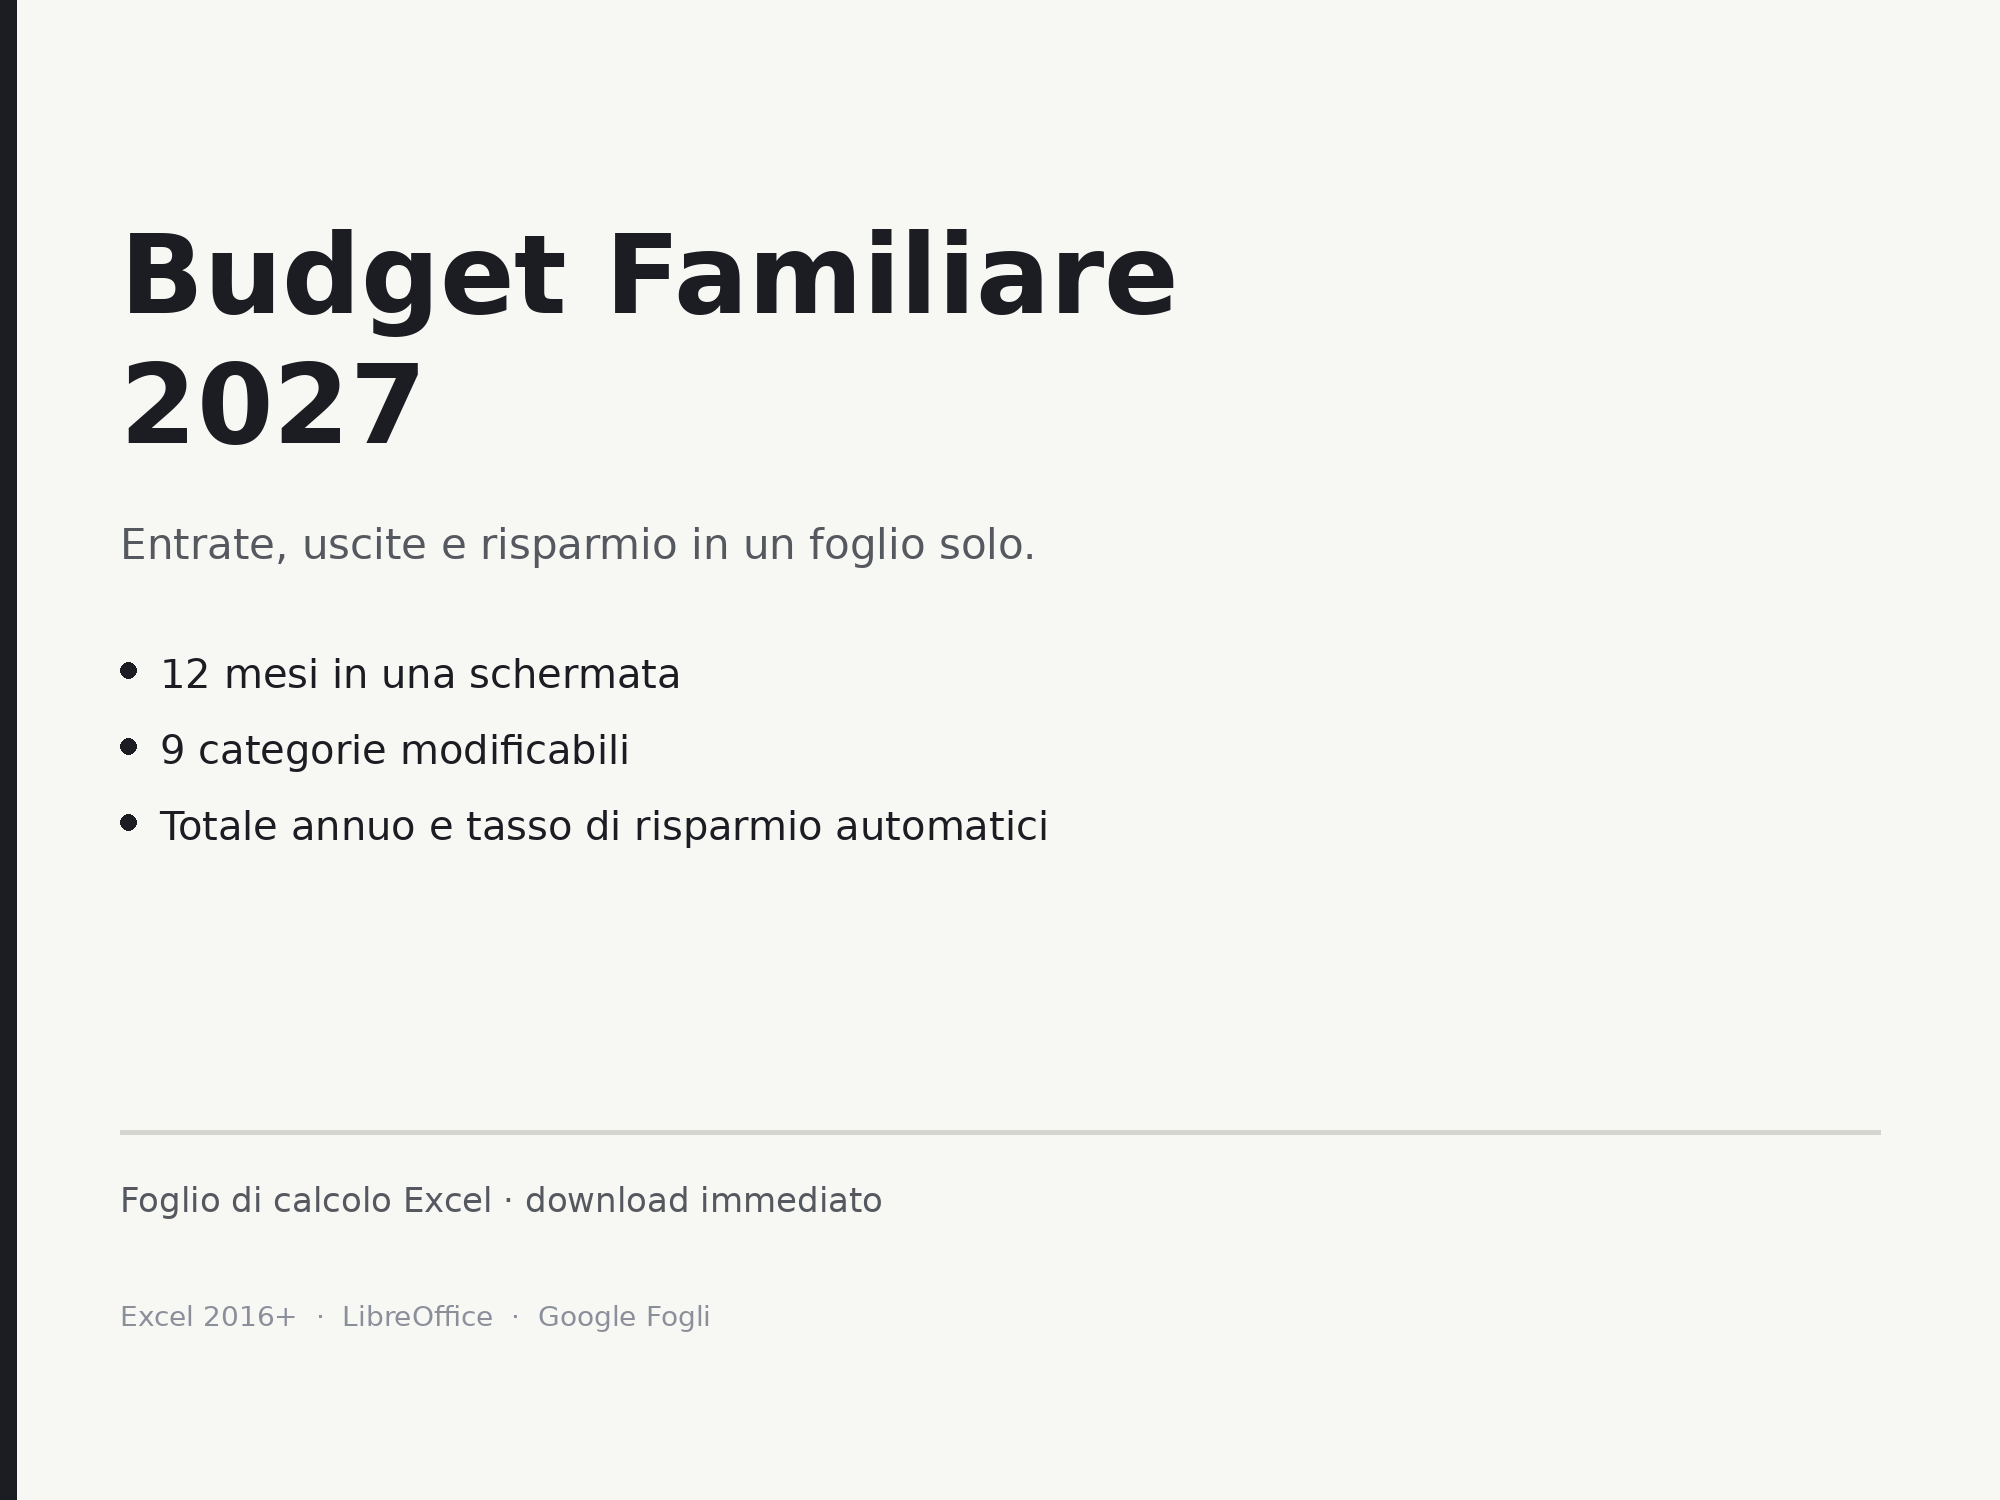
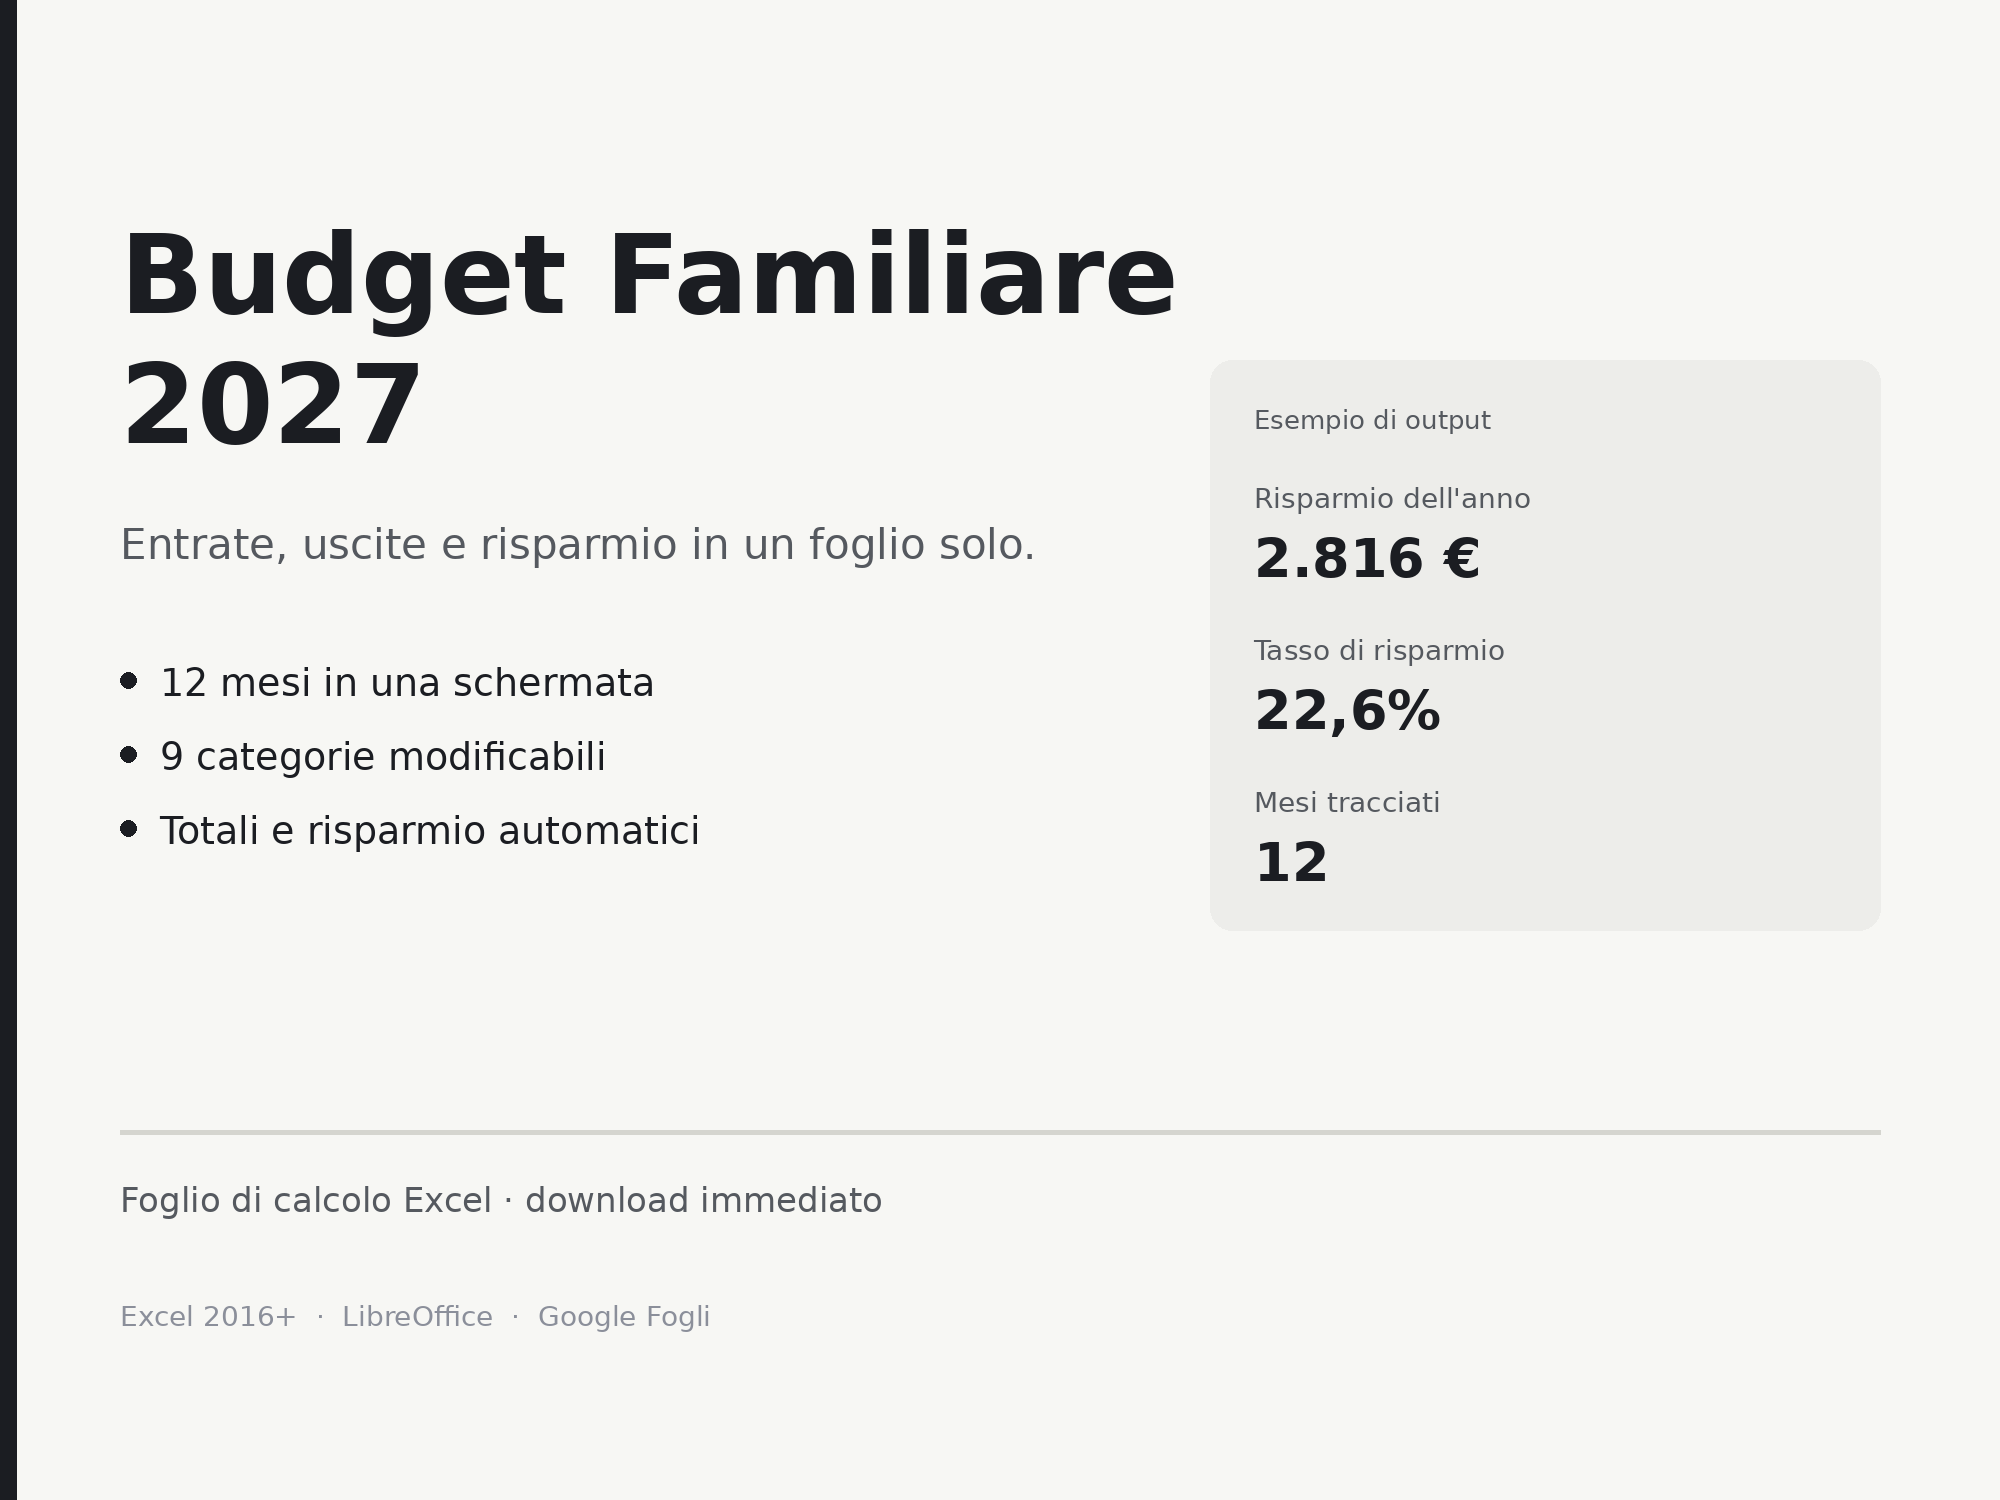
Anteprime: tabella entro il bordo e copertina con numeri di esempio
La tabella del foglio Budget sforava i 2000 px e tagliava la colonna Totale;
la copertina lasciava vuota la metà destra. Ora le colonne stanno in 1760 px
e la destra mostra tre numeri di output.

🤖 Generated with Codebuff

diff --git a/strumenti/anteprime_png.py b/strumenti/anteprime_png.py
@@ -59,10 +59,11 @@ def _titolo(d, testo, sottotitolo=None, y=110, dim=76):
     d.line([MARGINE, y + dim + (100 if sottotitolo else 50), L - MARGINE, y + dim + (100 if sottotitolo else 50)], fill=BORDO, width=2)
 
 
-def _tabella(d, x, y, larghezze, righe, allineamenti, altezza=62, evidenzia=()):
-    f_header = _font(28, True)
-    f_cella = _font(28)
-    f_bold = _font(28, True)
+def _tabella(d, x, y, larghezze, righe, allineamenti, altezza=62, evidenzia=(),
+             dim_cella=28, padding=18):
+    f_header = _font(dim_cella, True)
+    f_cella = _font(dim_cella)
+    f_bold = _font(dim_cella, True)
     for indice, riga in enumerate(righe):
         cx = x
         for colonna, (testo, larghezza) in enumerate(zip(riga, larghezze)):
@@ -72,12 +73,12 @@ def _tabella(d, x, y, larghezze, righe, allineamenti, altezza=62, evidenzia=()):
             allineamento = allineamenti[colonna]
             if allineamento == "r":
                 box = d.textbbox((0, 0), testo, font=f)
-                tx = cx + larghezza - 18 - (box[2] - box[0])
+                tx = cx + larghezza - padding - (box[2] - box[0])
             elif allineamento == "c":
                 box = d.textbbox((0, 0), testo, font=f)
                 tx = cx + (larghezza - (box[2] - box[0])) / 2
             else:
-                tx = cx + 18
+                tx = cx + padding
             d.text((tx, y + (altezza - 34) / 2), testo, font=f, fill=INCHIOSTRO)
             cx += larghezza
         y += altezza
@@ -108,7 +109,7 @@ def _righe_budget():
                  + [_eur(v) for v in totale_uscite_mesi] + [_eur(totale_uscite)])
     indice_totale_uscite = len(righe) - 1
 
-    saldo = [1_150 if False else a - b for a, b in zip(totale_entrate_mesi, totale_uscite_mesi)]
+    saldo = [a - b for a, b in zip(totale_entrate_mesi, totale_uscite_mesi)]
     righe.append(["SALDO", "", ""] + [_eur(v) for v in saldo] + [_eur(totale_entrate - totale_uscite)])
     indice_saldo = len(righe) - 1
 
@@ -124,13 +125,24 @@ def copertina():
     righe = [
         "12 mesi in una schermata",
         "9 categorie modificabili",
-        "Totale annuo e tasso di risparmio automatici",
+        "Totali e risparmio automatici",
     ]
-    y = 650
+    y = 660
     for r in righe:
         d.ellipse([MARGINE, y + 12, MARGINE + 16, y + 28], fill=INCHIOSTRO)
-        d.text((MARGINE + 40, y), r, font=_font(40), fill=INCHIOSTRO)
-        y += 76
+        d.text((MARGINE + 40, y), r, font=_font(38), fill=INCHIOSTRO)
+        y += 74
+
+    # pannello con i numeri di esempio: riempie la metà destra e mostra l'output
+    px, py = 1210, 360
+    d.rounded_rectangle([px, py, L - MARGINE, py + 570], radius=22, fill=EVIDENZA)
+    d.text((px + 44, py + 44), "Esempio di output", font=_font(26), fill=GRIGIO)
+    voci = [("Risparmio dell'anno", "2.816 €"), ("Tasso di risparmio", "22,6%"), ("Mesi tracciati", "12")]
+    yy = py + 122
+    for etichetta, valore in voci:
+        d.text((px + 44, yy), etichetta, font=_font(28), fill=GRIGIO)
+        d.text((px + 44, yy + 44), valore, font=_font(54, True), fill=INCHIOSTRO)
+        yy += 152
     d.rectangle([MARGINE, 1130, L - MARGINE, 1134], fill=BORDO)
     d.text((MARGINE, 1180), "Foglio di calcolo Excel · download immediato", font=_font(34), fill=GRIGIO)
     d.text((MARGINE, 1300), "Excel 2016+  ·  LibreOffice  ·  Google Fogli", font=_font(28), fill=TENUE)
@@ -163,8 +175,12 @@ def foglio_budget():
     img, d = _tela()
     _titolo(d, "Foglio Budget", "12 mesi, 9 categorie, totali automatici", dim=64)
     righe, evidenzia = _righe_budget()
-    larghezze = [500, 150, 190] + [160] * 6 + [210]
-    _tabella(d, MARGINE, 360, larghezze, righe, ["l", "l", "r", "r", "r", "r", "r", "r", "r", "r"], evidenzia=evidenzia)
+    larghezze = [420, 130, 165] + [145] * 6 + [175]
+    _tabella(
+        d, MARGINE, 360, larghezze, righe,
+        ["l", "l", "r", "r", "r", "r", "r", "r", "r", "r"],
+        evidenzia=evidenzia, dim_cella=25, padding=12,
+    )
     d.text((MARGINE, 1360), "Valori di esempio: le formule lavorano sui tuoi numeri.",
            font=_font(28), fill=TENUE)
     img.save(os.path.join(CARTELLA, "03-foglio-budget.png"), optimize=True)
